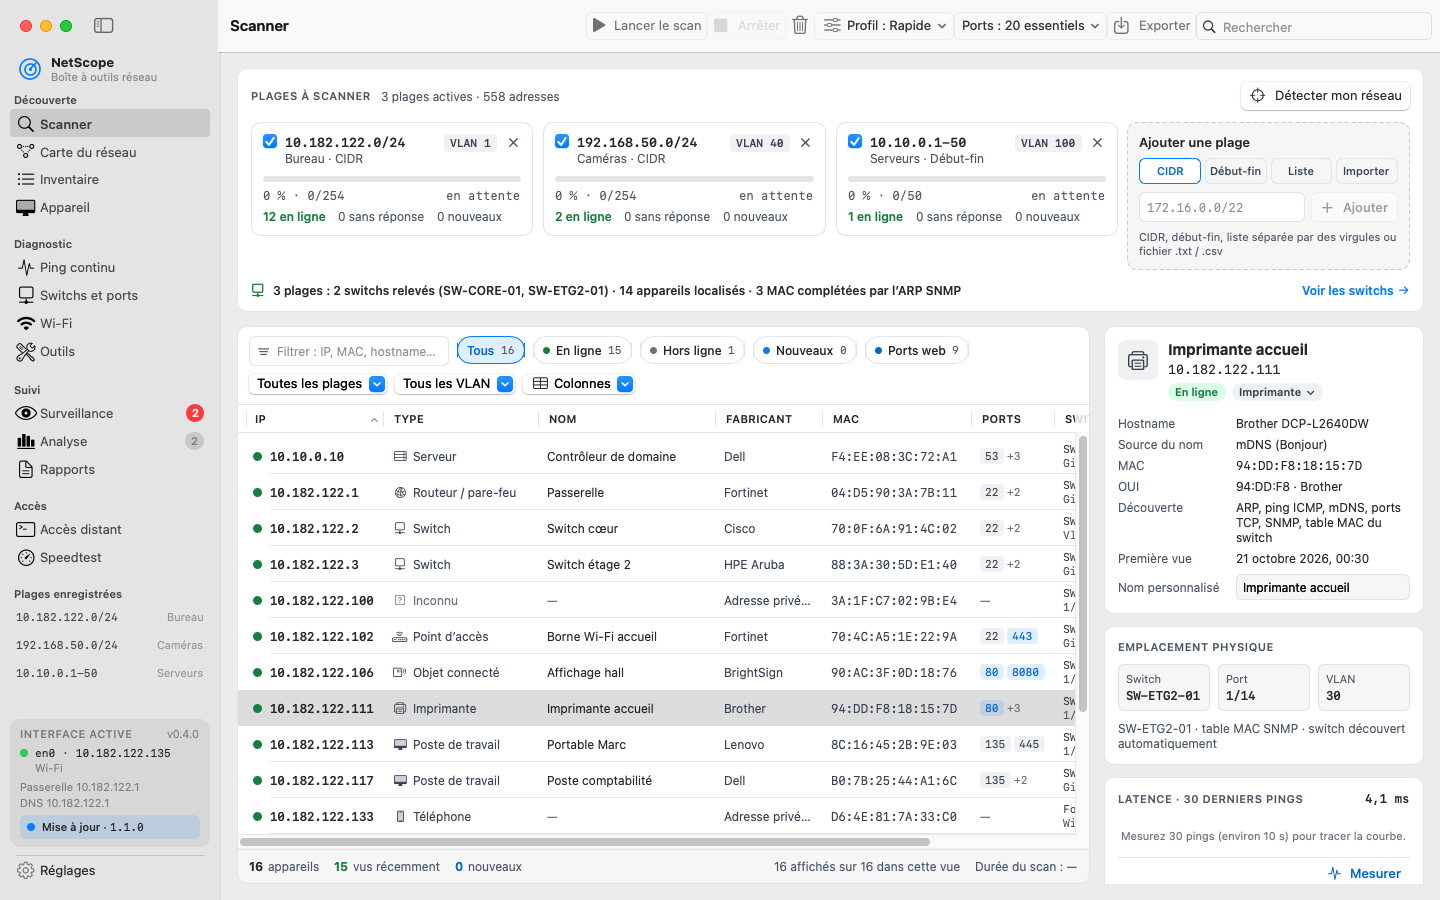
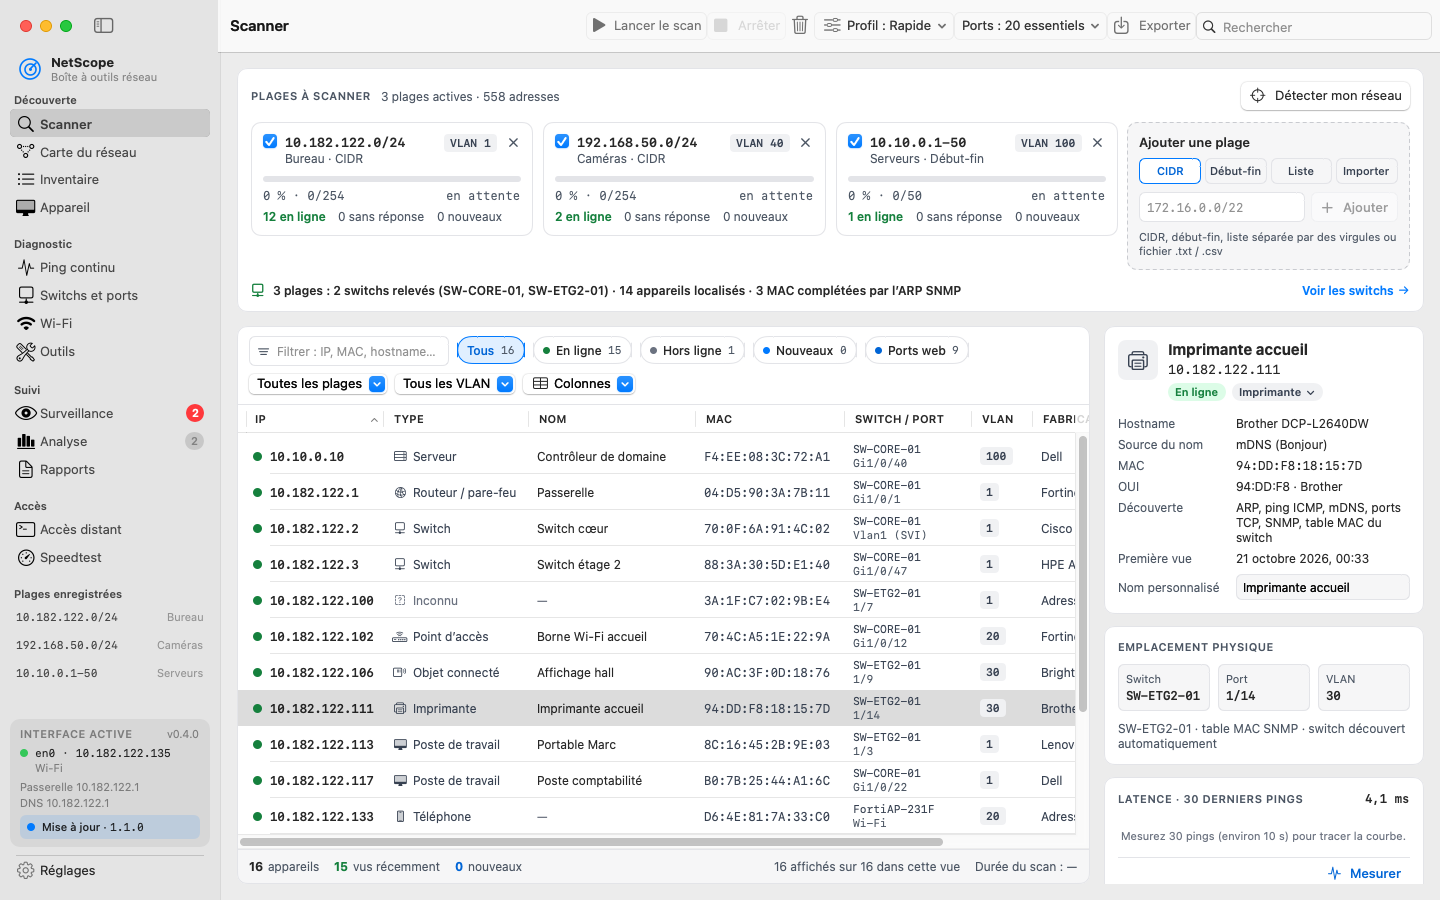
Scanner : emplacement (switch, port, VLAN) juste après la MAC
Type et Nom restent lisibles à 1440 ; si le tableau défile, Fabricant et
Ports sortent de la vue en premier.

diff --git a/Sources/NetScope/Screens/Scanner/ScanResultsPanel.swift b/Sources/NetScope/Screens/Scanner/ScanResultsPanel.swift
@@ -275,12 +275,12 @@ struct ScanDeviceTable: View {
         // Hostname, latence et dernière vue : facultatifs (on les rajoute par « Colonnes ») ; à côté du
         // panneau de détail, le tableau défile horizontalement plutôt que de rogner Type et Nom.
         StandardColumn(id: "hostname", title: "Hostname", isDefaultVisible: false),
-        StandardColumn(id: "fabricant", title: "Fabricant"),
         StandardColumn(id: "mac", title: "MAC"),
-        StandardColumn(id: "latence", title: "Latence", isDefaultVisible: false),
-        StandardColumn(id: "ports", title: "Ports ouverts"),
         StandardColumn(id: "switch", title: "Switch / port"),
         StandardColumn(id: "vlan", title: "VLAN"),
+        StandardColumn(id: "fabricant", title: "Fabricant"),
+        StandardColumn(id: "ports", title: "Ports ouverts"),
+        StandardColumn(id: "latence", title: "Latence", isDefaultVisible: false),
         StandardColumn(id: "derniereVue", title: "Vu la dernière fois", isDefaultVisible: false),
         StandardColumn(id: "premiereVue", title: "Première vue", isDefaultVisible: false),
         StandardColumn(id: "sourceNom", title: "Source du nom", isDefaultVisible: false),
@@ -333,9 +333,9 @@ struct ScanDeviceTable: View {
                 TableColumn(StandardTableHeading("TYPE"), sortUsing: table.sort("type")) { device in
                     ScanTypeCell(type: device.deviceType, isManual: inventory.typeChoice(for: device).isManual)
                 }
-                // « Routeur / pare-feu », « Poste de travail » en entier : le tableau défile plutôt
-                // horizontalement pour les dernières colonnes (Switch / port, VLAN).
-                .width(min: 132, ideal: 138)
+                // Emplacement (Switch / port, VLAN) juste après la MAC : si le tableau défile
+                // horizontalement, ce sont Fabricant et Ports qui sortent de la vue en premier.
+                .width(min: 112, ideal: 128)
                 .customizationID("type")
 
                 TableColumn(StandardTableHeading("NOM"), sortUsing: table.sort("nom")) { device in
@@ -347,7 +347,7 @@ struct ScanDeviceTable: View {
                         if scan.newIDs.contains(device.id) { ScanNewBadge() }
                     }
                 }
-                .width(min: 150, ideal: 160)
+                .width(min: 120, ideal: 150)
                 .customizationID("nom")
 
                 TableColumn(StandardTableHeading("HOSTNAME"), sortUsing: table.sort("hostname")) { device in
@@ -358,18 +358,43 @@ struct ScanDeviceTable: View {
                 .customizationID("hostname")
                 .defaultVisibility(.hidden)
 
-                TableColumn(StandardTableHeading("FABRICANT"), sortUsing: table.sort("fabricant")) { device in
-                    ScanCellText(device.vendorLabel, dimmed: device.vendor == nil && device.mac == nil)
-                }
-                .width(min: 70, ideal: 90)
-                .customizationID("fabricant")
-
                 TableColumn(StandardTableHeading("MAC"), sortUsing: table.sort("mac")) { device in
                     ScanCellText(device.mac?.formatted(.upperColon) ?? "—", mono: true, dimmed: device.mac == nil)
                 }
                 // Toujours l'adresse complète (17 caractères en chasse fixe).
                 .width(min: 132, ideal: 132)
                 .customizationID("mac")
+
+                TableColumn(StandardTableHeading("SWITCH / PORT"), sortUsing: table.sort("switch")) { device in
+                    let status = state.locationStatus(device)
+                    SwitchPortCell(name: device.switchName, port: device.switchPort, dimmed: !status.isCurrent,
+                                   note: status.explanation)
+                }
+                .width(min: 94, ideal: 110)
+                .customizationID("switch")
+
+                TableColumn(StandardTableHeading("VLAN"), sortUsing: table.sort("vlan")) { device in
+                    if let vlan = device.vlan {
+                        Chip(text: "\(vlan)", mono: true)
+                            .opacity(state.vlanStatus(device).isCurrent ? 1 : 0.5)
+                    } else {
+                        ScanCellText("—", dimmed: true)
+                    }
+                }
+                .width(min: 40, ideal: 44)
+                .customizationID("vlan")
+
+                TableColumn(StandardTableHeading("FABRICANT"), sortUsing: table.sort("fabricant")) { device in
+                    ScanCellText(device.vendorLabel, dimmed: device.vendor == nil && device.mac == nil)
+                }
+                .width(min: 70, ideal: 90)
+                .customizationID("fabricant")
+
+                TableColumn(StandardTableHeading("PORTS"), sortUsing: table.sort("ports")) { device in
+                    ScanPortTags(ports: device.openPorts)
+                }
+                .width(min: 58, ideal: 66)
+                .customizationID("ports")
 
                 TableColumn(StandardTableHeading("LATENCE"), sortUsing: table.sort("latence")) { device in
                     Text(ScanFormat.latency(device.latencyMs))
@@ -381,32 +406,14 @@ struct ScanDeviceTable: View {
                 .customizationID("latence")
                 .defaultVisibility(.hidden)
 
-                TableColumn(StandardTableHeading("PORTS"), sortUsing: table.sort("ports")) { device in
-                    ScanPortTags(ports: device.openPorts)
-                }
-                .width(min: 58, ideal: 66)
-                .customizationID("ports")
 
-                TableColumn(StandardTableHeading("SWITCH / PORT"), sortUsing: table.sort("switch")) { device in
-                    let status = state.locationStatus(device)
-                    SwitchPortCell(name: device.switchName, port: device.switchPort, dimmed: !status.isCurrent,
-                                   note: status.explanation)
-                }
-                .width(min: 94, ideal: 110)
-                .customizationID("switch")
+
+
+
+
             }
 
             Group {
-                TableColumn(StandardTableHeading("VLAN"), sortUsing: table.sort("vlan")) { device in
-                    if let vlan = device.vlan {
-                        Chip(text: "\(vlan)", mono: true)
-                            .opacity(state.vlanStatus(device).isCurrent ? 1 : 0.5)
-                    } else {
-                        ScanCellText("—", dimmed: true)
-                    }
-                }
-                .width(min: 40, ideal: 44)
-                .customizationID("vlan")
 
                 TableColumn(StandardTableHeading("VU LA DERNIÈRE FOIS"), sortUsing: table.sort("derniereVue")) { device in
                     TimelineView(.periodic(from: .now, by: 30)) { context in
